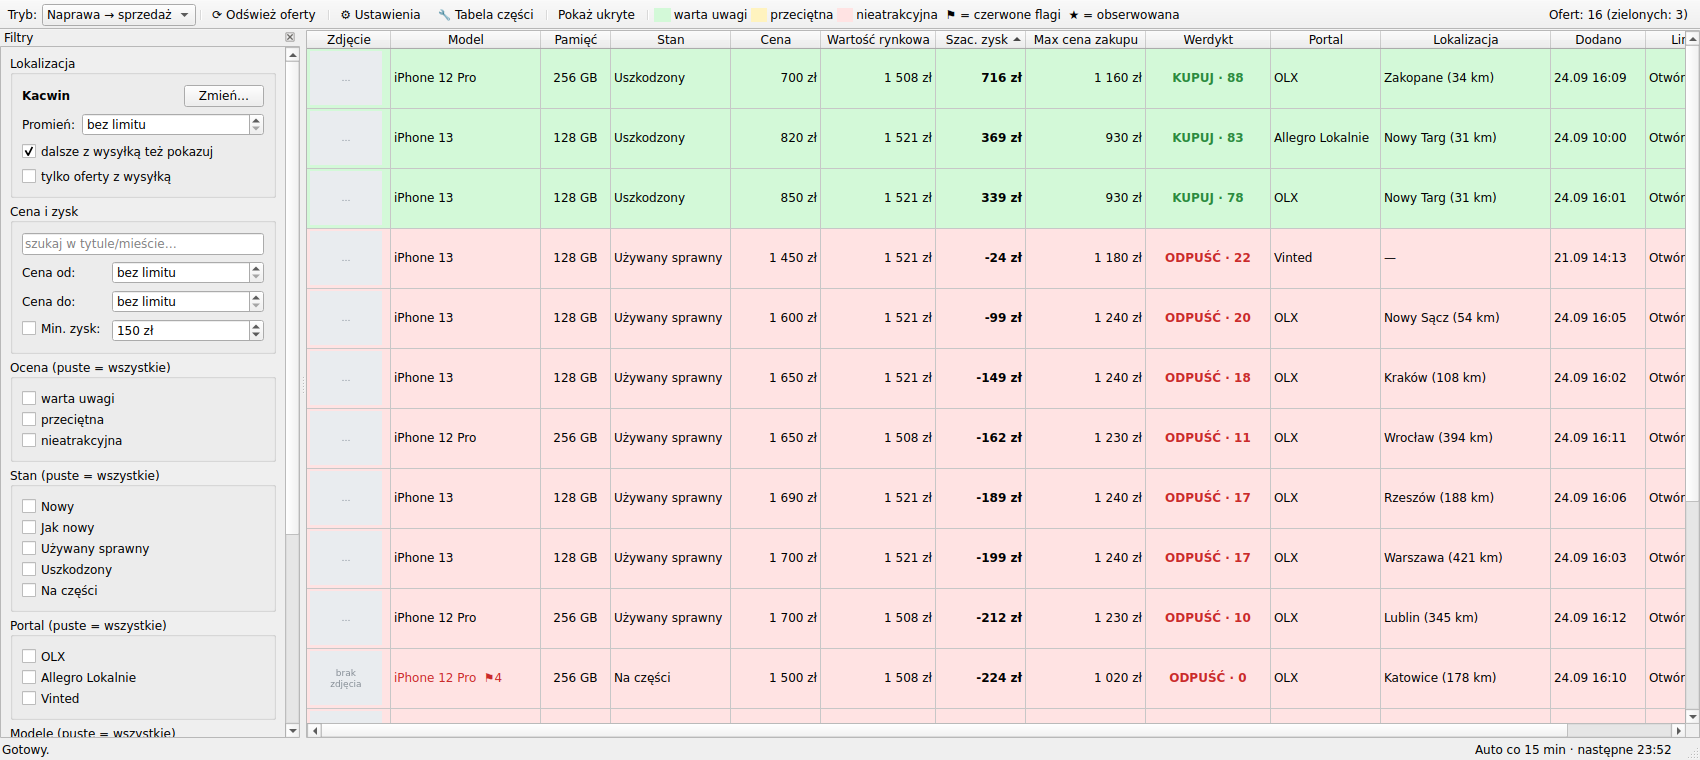
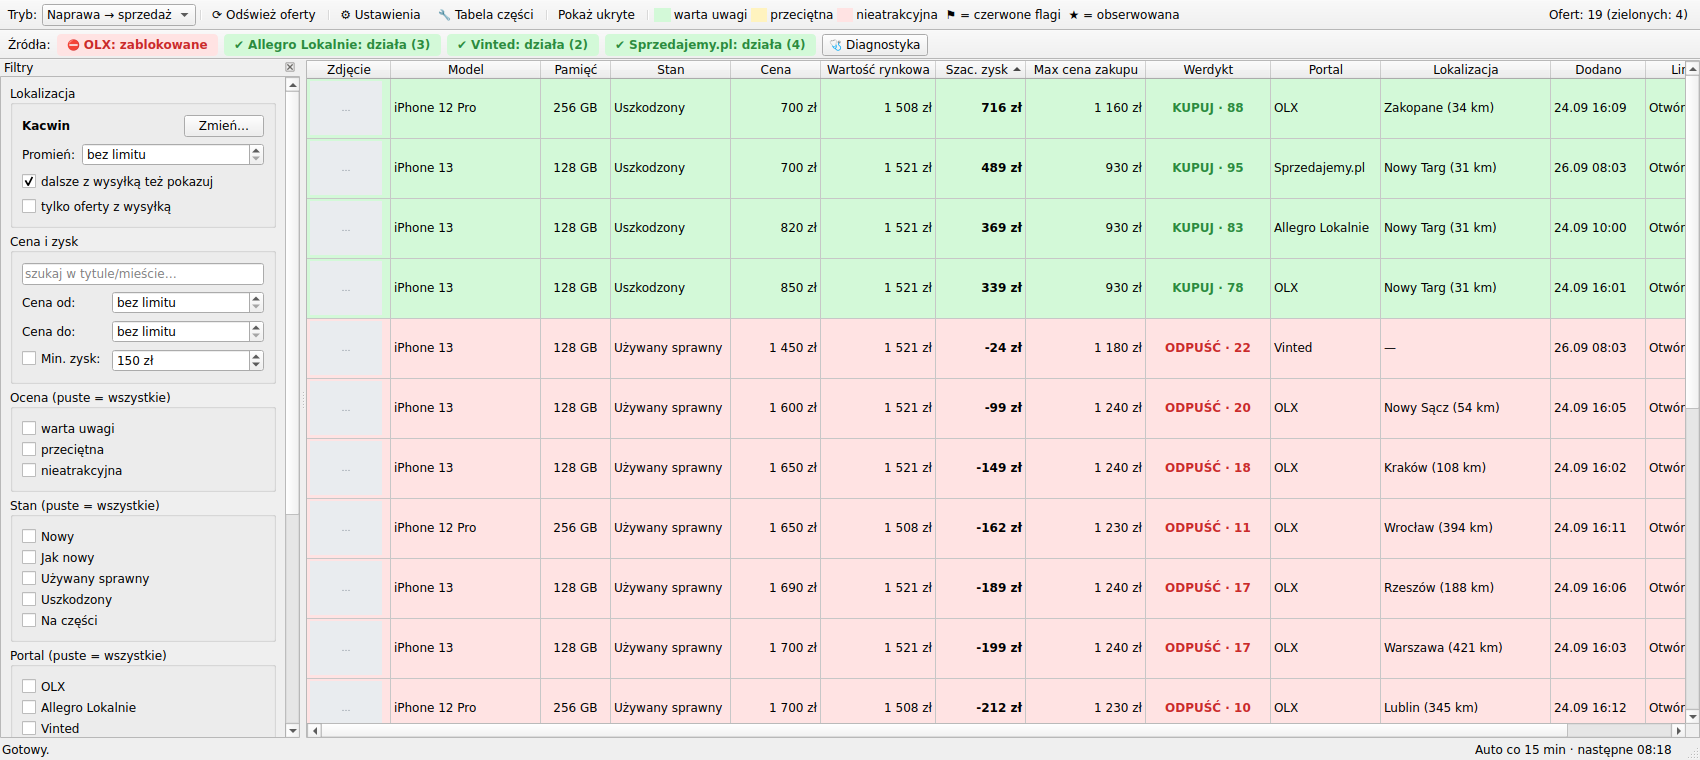
Nowe źródło: Sprzedajemy.pl
- adapter czyta listę ofert z JSON-LD strony wyników (uniwersalny ekstraktor),
  identyfikator i miasto z adresu ogłoszenia, filtr cen po stronie aplikacji
- nazwy i ustawienia portali (status, filtry, opłaty) z rejestru adapterów
- testy adaptera; kanarek na żywo obejmuje nowe źródło automatycznie

Claude-Session: https://claude.ai/code/session_01T7iH4pd68SBs4FcADJsyk1

diff --git a/tests/fixtures/sprzedajemy_page1.html b/tests/fixtures/sprzedajemy_page1.html
@@ -1,0 +1,4 @@
+<!DOCTYPE html><html><head><script type="application/ld+json">{"@context": "https://schema.org", "@type": "BreadcrumbList", "itemListElement": [{"@type": "ListItem", "position": 1, "name": "Sprzedajemy.pl", "item": "https://sprzedajemy.pl"}]}</script>
+<script type="application/ld+json">{"@context": "https://schema.org", "@type": "ItemList", "itemListElement": [{"@type": "ListItem", "position": 1, "item": {"@type": "Product", "name": "Iphone 13 128GB zbity ekran", "url": "https://sprzedajemy.pl/iphone-13-128gb-zbity-ekran-nowy-targ-4-0010c9-nr69433241", "image": "https://thumbs.img-sprzedajemy.pl/1.jpg", "offers": {"@type": "Offer", "price": "700", "priceCurrency": "PLN"}}}, {"@type": "ListItem", "position": 2, "item": {"@type": "Product", "name": "Iphone 13 pro 256GB Alpine Green zielony Stan Idealny", "url": "https://sprzedajemy.pl/iphone-13-pro-256gb-alpine-green-zielony-stan-idealny-warszawa-4-0010c9-nr69444174", "image": "https://thumbs.img-sprzedajemy.pl/2.jpg", "offers": {"@type": "Offer", "price": "3000", "priceCurrency": "PLN"}}}, {"@type": "ListItem", "position": 3, "item": {"@type": "Product", "name": "Etui IPhone 13 pro max", "url": "https://sprzedajemy.pl/etui-iphone-13-pro-max-brzesko-4-0010c9-nr71699292", "image": "https://thumbs.img-sprzedajemy.pl/3.jpg", "offers": {"@type": "Offer", "price": "35", "priceCurrency": "PLN"}}}, {"@type": "ListItem", "position": 4, "item": {"@type": "Product", "name": "Iphone 13", "url": "https://sprzedajemy.pl/iphone-13-kielce-4-0010c9-nr69433240", "image": "https://thumbs.img-sprzedajemy.pl/4.jpg", "offers": {"@type": "Offer", "price": "2200", "priceCurrency": "PLN"}}}]}</script></head><body>
+<ul><li class="details"><h2 class="title"><a href="/iphone-13-kielce-4-0010c9-nr69433240" class="offerLink">Iphone 13</a></h2>
+<div class="pricing"><span class="price">2 200 zł</span></div></li></ul></body></html>

diff --git a/phonebot/sources/sprzedajemy.py b/phonebot/sources/sprzedajemy.py
@@ -1,0 +1,107 @@
+"""Adapter Sprzedajemy.pl.
+
+Sprzedajemy.pl nie ma publicznego API. Strona wyników wyszukiwania zawiera
+listę ofert w standardowym formacie JSON-LD (``ItemList`` z produktami: tytuł,
+cena, link, zdjęcie), którą czyta uniwersalny ekstraktor (``extract.py``).
+Miasto jest częścią adresu ogłoszenia, np.
+``/iphone-13-kielce-4-0010c9-nr69433240`` → Kielce.
+"""
+from __future__ import annotations
+
+import logging
+import re
+from urllib.parse import urlsplit
+
+from ..core.models import RawOffer
+from ..core.places import find_place
+from ..core.settings import Settings
+from ..net.http import HttpClient
+from .base import SearchQuery, SourceAdapter, SourceFormatChanged, register, search_all_phrases
+from .extract import ExtractedOffer, offers_from_html
+
+log = logging.getLogger(__name__)
+
+BASE_URL = "https://sprzedajemy.pl"
+SEARCH_URL = BASE_URL + "/wszystkie-ogloszenia"
+
+_ID_RE = re.compile(r"-nr(\d+)(?:$|[/?#])")
+# „…-<miasto>-<kod kategorii>-<hash>-nr<id>”
+_CITY_RE = re.compile(r"/(?P<slug>[a-z0-9-]+?)-\d+-[0-9a-f]{6}-nr\d+")
+_CONDITIONS = {"newcondition": "new", "usedcondition": "used", "damagedcondition": "damaged",
+               "nowy": "new", "używany": "used", "uszkodzony": "damaged"}
+
+
+def offer_id(url: str | None, fallback: str) -> str:
+    m = _ID_RE.search(url or "")
+    return m.group(1) if m else fallback
+
+
+def city_from_url(url: str | None) -> str | None:
+    """Miasto z końcówki adresu ogłoszenia (dopasowane do listy miejscowości, gdy się da)."""
+    m = _CITY_RE.search(urlsplit(url or "").path)
+    if not m:
+        return None
+    words = m.group("slug").split("-")
+    for n in (3, 2, 1):  # najpierw nazwy wielowyrazowe: „nowy-targ”, „bielsko-biala”
+        if len(words) < n:
+            continue
+        candidate = " ".join(words[-n:])
+        place = find_place(candidate)
+        if place:
+            return place.name
+    return words[-1].capitalize() if words else None
+
+
+def looks_like_no_results(html: str) -> bool:
+    low = html.lower()
+    return any(m in low for m in ("brak ogłoszeń", "nie znaleźliśmy", "0 ogłoszeń", "brak wyników"))
+
+
+def to_raw(o: ExtractedOffer) -> RawOffer:
+    params: dict[str, str] = {}
+    if o.condition:
+        params["condition"] = _CONDITIONS.get(o.condition.lower(), o.condition)
+    return RawOffer(
+        source=SprzedajemyAdapter.key,
+        source_id=offer_id(o.url, o.id),
+        url=o.url or BASE_URL,
+        title=o.title,
+        price=o.price,
+        description=o.description,
+        currency=o.currency,
+        city=o.city or city_from_url(o.url),
+        photos=o.photos,
+        created_at=o.created_at,
+        params=params,
+    )
+
+
+@register
+class SprzedajemyAdapter(SourceAdapter):
+    key = "sprzedajemy"
+    display_name = "Sprzedajemy.pl"
+
+    def __init__(self, http: HttpClient, settings: Settings):
+        self.http = http
+        self.settings = settings
+
+    async def search(self, query: SearchQuery) -> list[RawOffer]:
+        return await search_all_phrases(query.phrases, lambda p, out: self._search_phrase(p, query, out))
+
+    async def _search_phrase(self, phrase: str, query: SearchQuery, out: dict[str, RawOffer]) -> None:
+        # Tylko pierwsza strona wyników na frazę — parametry stronicowania i filtrów cen
+        # Sprzedajemy.pl nie są udokumentowane, więc ceny filtruje sama aplikacja.
+        html = await self.http.get_text(SEARCH_URL, params={"inp_text": phrase})
+        extracted = [o for o in offers_from_html(html, BASE_URL) if o.currency == "PLN"]
+        if not extracted:
+            if looks_like_no_results(html):
+                return
+            raise SourceFormatChanged("nie znaleziono listy ofert (JSON-LD) na stronie — możliwa zmiana formatu")
+        for o in extracted:
+            raw = to_raw(o)
+            if query.price_min and raw.price < query.price_min:
+                continue
+            if query.price_max and raw.price > query.price_max:
+                continue
+            out.setdefault(raw.source_id, raw)
+        log.info("Sprzedajemy.pl „%s”: %d ofert", phrase, len(extracted))

diff --git a/tests/test_sources_other.py b/tests/test_sources_other.py
@@ -187,3 +187,55 @@ def test_vinted_expired_token_is_refreshed():
 def test_vinted_unexpected_json_means_format_changed():
     with pytest.raises(SourceFormatChanged, match="listy przedmiotów"):
         vinted_search(vinted_handler([], catalogue={"results": "nowy format"}))
+
+
+# ------------------------------------------------------------- Sprzedajemy.pl ---
+
+from phonebot.sources.sprzedajemy import SprzedajemyAdapter, city_from_url, offer_id  # noqa: E402
+
+SPRZEDAJEMY = (FIX / "sprzedajemy_page1.html").read_text(encoding="utf-8")
+
+
+@pytest.mark.parametrize("url, city", [
+    ("https://sprzedajemy.pl/iphone-13-kielce-4-0010c9-nr69433240", "Kielce"),
+    ("https://sprzedajemy.pl/iphone-13-128gb-zbity-ekran-nowy-targ-4-0010c9-nr69433241", "Nowy Targ"),
+    ("https://sprzedajemy.pl/etui-brzesko-4-0010c9-nr71699292", "Brzesko"),
+    ("https://sprzedajemy.pl/cos-innego", None),
+])
+def test_sprzedajemy_city_from_url(url, city):
+    assert city_from_url(url) == city
+
+
+def test_sprzedajemy_offer_id():
+    assert offer_id("https://sprzedajemy.pl/iphone-13-kielce-4-0010c9-nr69433240", "x") == "69433240"
+    assert offer_id(None, "fallback") == "fallback"
+
+
+def test_sprzedajemy_adapter():
+    calls = []
+
+    def handler(request):
+        calls.append(request)
+        return httpx.Response(200, text=SPRZEDAJEMY)
+
+    async def go():
+        async with client(handler) as http:
+            return await SprzedajemyAdapter(http, Settings()).search(
+                SearchQuery(Mode.RESELL, phrases=["iphone 13"], price_max=2500))
+
+    offers = {o.source_id: o for o in run(go())}
+    assert calls[0].url.params["inp_text"] == "iphone 13"
+    assert set(offers) == {"69433241", "71699292", "69433240"}  # 3000 zł odfiltrowane przez price_max
+    o = offers["69433241"]
+    assert (o.source, o.price, o.city) == ("sprzedajemy", 700, "Nowy Targ")
+    assert o.url.endswith("nr69433241") and o.photos == ["https://thumbs.img-sprzedajemy.pl/1.jpg"]
+
+
+def test_sprzedajemy_layout_change_and_no_results():
+    async def go(html):
+        async with client(lambda r: httpx.Response(200, text=html)) as http:
+            return await SprzedajemyAdapter(http, Settings()).search(SearchQuery(Mode.RESELL, phrases=["x"]))
+
+    assert run(go("<html>Brak ogłoszeń spełniających kryteria</html>")) == []
+    with pytest.raises(SourceFormatChanged):
+        run(go("<html>zupełnie nowy wygląd</html>"))

diff --git a/phonebot/core/settings.py b/phonebot/core/settings.py
@@ -90,7 +90,8 @@ class Settings:
     buy_shipping_cost: float = 15.0
     # opłata kupującego per portal: [procent ceny, kwota stała] — wartości orientacyjne
     buyer_fees: dict[str, list[float]] = field(
-        default_factory=lambda: {"olx": [0.0, 0.0], "allegro_lokalnie": [0.0, 0.0], "vinted": [5.0, 2.9]}
+        default_factory=lambda: {"olx": [0.0, 0.0], "allegro_lokalnie": [0.0, 0.0], "vinted": [5.0, 2.9],
+                                 "sprzedajemy": [0.0, 0.0]}
     )
     pickup_cost_per_km: float = 1.0  # liczone w obie strony
     pickup_flat_cost: float = 100.0  # gdy brak wysyłki i nieznana odległość
@@ -125,7 +126,7 @@ class Settings:
 
     # --- pobieranie ---
     enabled_sources: dict[str, bool] = field(
-        default_factory=lambda: {"olx": True, "allegro_lokalnie": True, "vinted": True}
+        default_factory=lambda: {"olx": True, "allegro_lokalnie": True, "vinted": True, "sprzedajemy": True}
     )
     request_delay_s: float = 4.0
     source_timeout_s: float = 180.0  # maks. czas pobierania z jednego portalu

diff --git a/tests/test_ui_stage4.py b/tests/test_ui_stage4.py
@@ -42,8 +42,9 @@ def test_three_portals_scanned(window):
     assert all(s.ok for s in by_source.values()), [s.error for s in by_source.values()]
     assert by_source["olx"].saved == 12
     assert by_source["allegro_lokalnie"].saved == 2  # etui odrzucone
-    assert by_source["vinted"].saved == 2  # oferta w EUR odrzucona
-    assert sources_shown(window) == {"OLX", "Allegro Lokalnie", "Vinted"}
+    assert by_source["vinted"].saved == 2  # oferta w obcej walucie odrzucona
+    assert by_source["sprzedajemy"].saved == 3  # etui odrzucone
+    assert sources_shown(window) == {"OLX", "Allegro Lokalnie", "Vinted", "Sprzedajemy.pl"}
 
 
 def test_filters_apply_and_persist(window):

diff --git a/tests/sample_data.py b/tests/sample_data.py
@@ -27,6 +27,8 @@ def mock_portals(request: httpx.Request) -> httpx.Response:
         return httpx.Response(200, text="", headers={"set-cookie": "access_token_web=tok; Path=/; Domain=.vinted.pl"})
     if host == "api.vinted.pl":  # nowy katalog (od września 2026)
         return httpx.Response(200, json=json.loads((FIX / "vinted_svc_catalogue.json").read_text(encoding="utf-8")))
+    if host == "sprzedajemy.pl":
+        return httpx.Response(200, text=(FIX / "sprzedajemy_page1.html").read_text(encoding="utf-8"))
     return httpx.Response(404)
 
 

diff --git a/tests/test_scanner.py b/tests/test_scanner.py
@@ -92,7 +92,9 @@ def test_price_drop_detected(conn):
 
 
 def test_disabled_sources(conn):
-    s = Settings(enabled_sources={"olx": False, "allegro_lokalnie": False, "vinted": False})
+    from phonebot.sources import REGISTRY
+
+    s = Settings(enabled_sources={k: False for k in REGISTRY})
     from phonebot.services.scanner import default_adapters
     assert default_adapters(None, s) == []
 

diff --git a/phonebot/sources/__init__.py b/phonebot/sources/__init__.py
@@ -1,5 +1,5 @@
 """Adaptery portali. Import modułu rejestruje adapter w ``REGISTRY``."""
-from . import allegro_lokalnie, olx, vinted  # noqa: F401
+from . import allegro_lokalnie, olx, sprzedajemy, vinted  # noqa: F401
 from .base import REGISTRY, SearchQuery, SourceAdapter, SourceError, register, search_phrases
 
 # Kolejność wyświetlania portali w GUI (nieznane na końcu, alfabetycznie).

diff --git a/README.md b/README.md
@@ -1,7 +1,7 @@
 # PhoneBot — wyszukiwarka opłacalnych ofert iPhone'ów
 
 Aplikacja desktopowa (Windows) do wyszukiwania ofert używanych iPhone'ów na OLX.pl,
-Allegro Lokalnie i Vinted, wyceny ich opłacalności i podpowiadania, czy i za ile kupić.
+Allegro Lokalnie, Vinted i Sprzedajemy.pl, wyceny ich opłacalności i podpowiadania, czy i za ile kupić.
 
 > **Status: wszystkie 5 etapów gotowe.** Trzy portale, wycena, werdykty i negocjacje, filtry,
 > ustawienia, automatyczne odświeżanie, powiadomienia Windows i Telegram, opcjonalna analiza AI
@@ -324,6 +324,10 @@ pokaże błąd, a pozostałe portale działają normalnie. Katalog Vinted nie za
 więc usterki rozpoznawane są tylko z tytułu. Do kosztu zakupu doliczana jest opłata za ochronę
 kupujących: dokładna, jeśli podaje ją Vinted, w przeciwnym razie z ustawień (domyślnie 5% + 2,90 zł,
 wartość orientacyjna).
+
+Sprzedajemy.pl nie ma API. Strona wyników zawiera listę ofert w standardowym formacie JSON-LD,
+którą czyta ten sam uniwersalny ekstraktor co Allegro Lokalnie. Miasto jest odczytywane z adresu
+ogłoszenia. Pobierana jest pierwsza strona wyników na frazę, a ceny filtruje sama aplikacja.
 
 Adaptery Allegro Lokalnie i Vinted są przetestowane na przykładowych danych w `tests/fixtures/`.
 Pierwsze uruchomienie na prawdziwych portalach może wymagać dopasowania.
